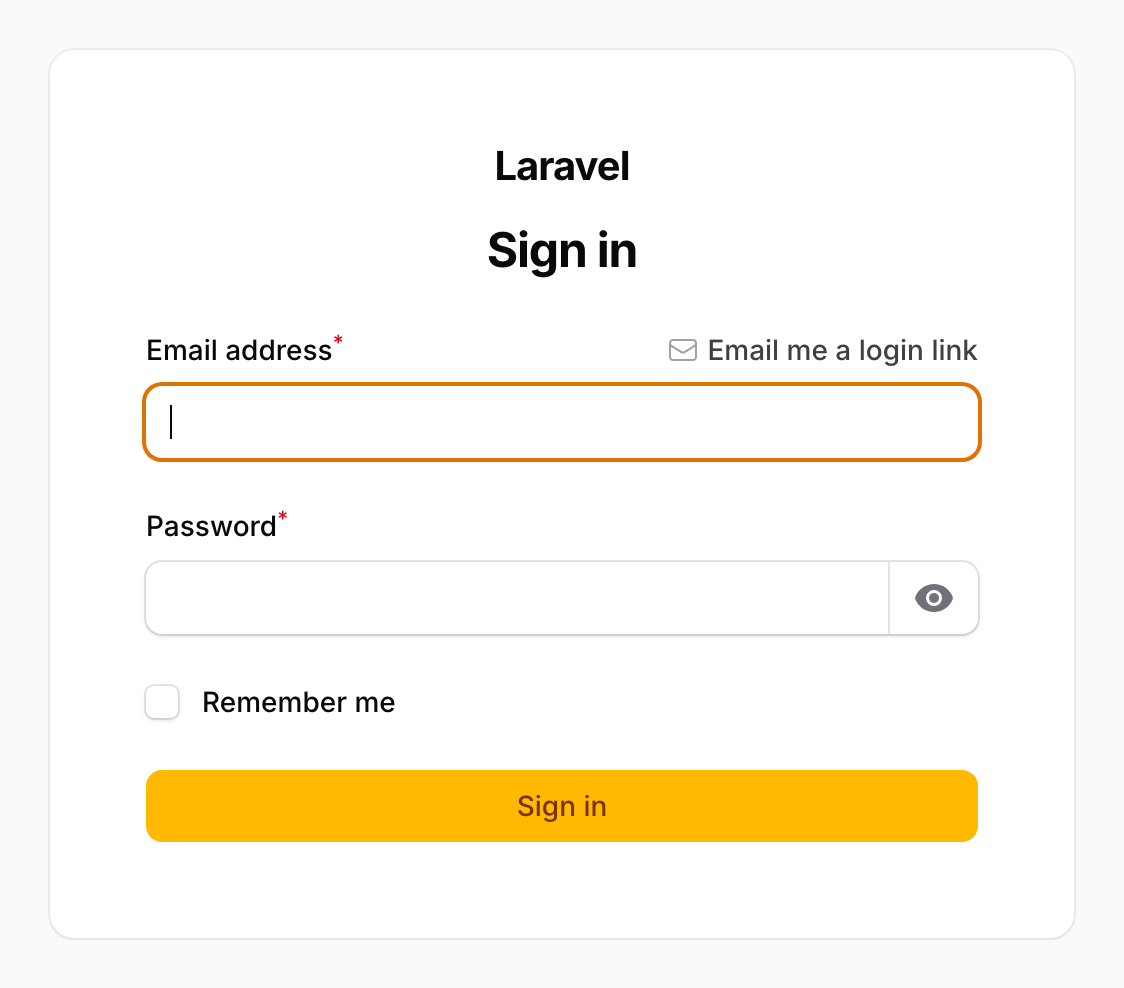
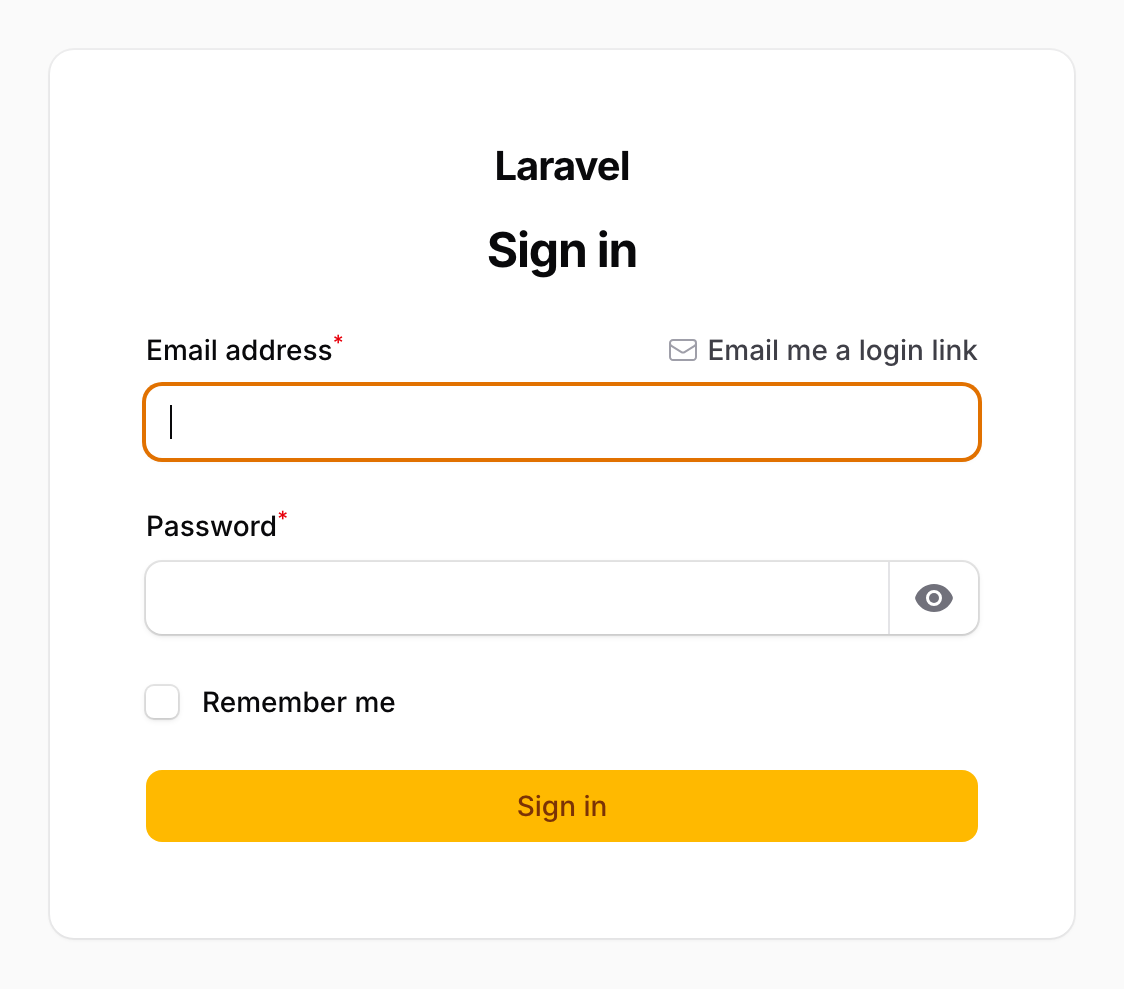
Add separator between buttons

diff --git a/src/Concerns/HasMagicLinkAction.php b/src/Concerns/HasMagicLinkAction.php
@@ -12,6 +12,7 @@ use Filament\Notifications\Notification;
 use Filament\Schemas\Components\Actions;
 use Filament\Schemas\Components\Component;
 use Filament\Schemas\Components\Form;
+use Filament\Schemas\Components\Html;
 
 /**
  * Adds the "email me a login link" action to a Filament login page.
@@ -34,8 +35,8 @@ trait HasMagicLinkAction
             });
 
         // Below the form it mirrors the "Sign in" button — same shape and size, but
-        // uncoloured, so it reads as the secondary way in. On the email field it is a
-        // labelled link, which fits the hint row.
+        // uncolored, so it reads as the secondary way in. On the email field it is a
+        // labeled link, which fits the hint row.
         return $plugin->getPosition() === MagicLinkPosition::EmailFieldHint
             ? $action->link()
             : $action->button();
@@ -118,11 +119,36 @@ trait HasMagicLinkAction
                 ->alignment($this->getFormActionsAlignment())
                 ->fullWidth($this->hasFullWidthFormActions())
                 ->key('form-actions'),
+
+            $this->magicLinkSeparator(),
+
             Actions::make([$this->magicLinkAction()])
                 ->alignment($this->getFormActionsAlignment())
                 ->fullWidth($this->hasFullWidthFormActions())
                 ->key('magic-login-actions'),
         ]);
+    }
+
+    /**
+     * A rule with "or" set in the middle of it, telling the two buttons apart.
+     *
+     * The styles are inline and lean on currentColor: panels ship Filament's compiled
+     * stylesheet, which carries no utility classes for a package view to borrow, and
+     * currentColor spares us a dark-mode variant.
+     */
+    protected function magicLinkSeparator(): Component
+    {
+        $rule = '<span style="flex: 1 1 0%; height: 1px; background-color: currentColor; opacity: 0.15;"></span>';
+
+        return Html::make(
+            '<div data-magic-login-separator style="display: flex; align-items: center; gap: 0.75rem;" aria-hidden="true">'
+            .$rule
+            .'<span style="font-size: 0.875rem; line-height: 1.25rem; opacity: 0.6;">'
+            .e(__('filament-magic-login::filament-magic-login.actions.or'))
+            .'</span>'
+            .$rule
+            .'</div>'
+        )->key('magic-login-separator');
     }
 
     protected function getEmailFormComponent(): Component

diff --git a/tests/Feature/LoginPageTest.php b/tests/Feature/LoginPageTest.php
@@ -238,6 +238,21 @@ it('renders the action label in the page html below the form', function (): void
         ->assertSee(__('filament-magic-login::filament-magic-login.actions.magic_link'));
 });
 
+it('separates the two buttons with an "or" rule below the form', function (): void {
+    $this->get(Filament::getPanel('admin')->getLoginUrl())
+        ->assertOk()
+        ->assertSee('data-magic-login-separator', escape: false)
+        ->assertSee(__('filament-magic-login::filament-magic-login.actions.or'));
+});
+
+it('leaves out the "or" rule when the action sits on the email field', function (): void {
+    $this->rebootWith(['filament-magic-login.position' => MagicLinkPosition::EmailFieldHint]);
+
+    $this->get(Filament::getPanel('admin')->getLoginUrl())
+        ->assertOk()
+        ->assertDontSee('data-magic-login-separator', escape: false);
+});
+
 it('renders the hint action in the page html on the email field', function (): void {
     $this->rebootWith(['filament-magic-login.position' => MagicLinkPosition::EmailFieldHint]);
 

diff --git a/resources/lang/ca/filament-magic-login.php b/resources/lang/ca/filament-magic-login.php
@@ -4,6 +4,7 @@ return [
 
     'actions' => [
         'magic_link' => 'Envia\'m un enllaç d\'accés',
+        'or' => 'o',
     ],
 
     'messages' => [

diff --git a/resources/lang/es/filament-magic-login.php b/resources/lang/es/filament-magic-login.php
@@ -4,6 +4,7 @@ return [
 
     'actions' => [
         'magic_link' => 'Envíame un enlace de acceso',
+        'or' => 'o',
     ],
 
     'messages' => [

diff --git a/resources/lang/en/filament-magic-login.php b/resources/lang/en/filament-magic-login.php
@@ -4,6 +4,7 @@ return [
 
     'actions' => [
         'magic_link' => 'Email me a login link',
+        'or' => 'or',
     ],
 
     'messages' => [

diff --git a/README.md b/README.md
@@ -8,8 +8,8 @@ The action appears in one of two places, chosen per panel:
 
 | `MagicLinkPosition::BelowForm` (default) | `MagicLinkPosition::EmailFieldHint` |
 |---|---|
-| <img src="art/below-form.png" alt="Filament login form with an 'Email me a login link' button under the Sign in button" width="420"> | <img src="art/email-field-hint.png" alt="Filament login form with an 'Email me a login link' hint action on the email field" width="420"> |
-| A full-width button under the "Sign in" button — same shape, no colour. | A labelled link on the email field's hint row. |
+| <img src="art/below-form.png" alt="Filament login form with an 'or' rule and an 'Email me a login link' button under the Sign in button" width="420"> | <img src="art/email-field-hint.png" alt="Filament login form with an 'Email me a login link' hint action on the email field" width="420"> |
+| A full-width button under the "Sign in" button, set apart by an "or" rule — same shape, no colour. | A labelled link on the email field's hint row. |
 
 Nothing about the password form changes: password login, password reset and registration keep
 working exactly as before.
